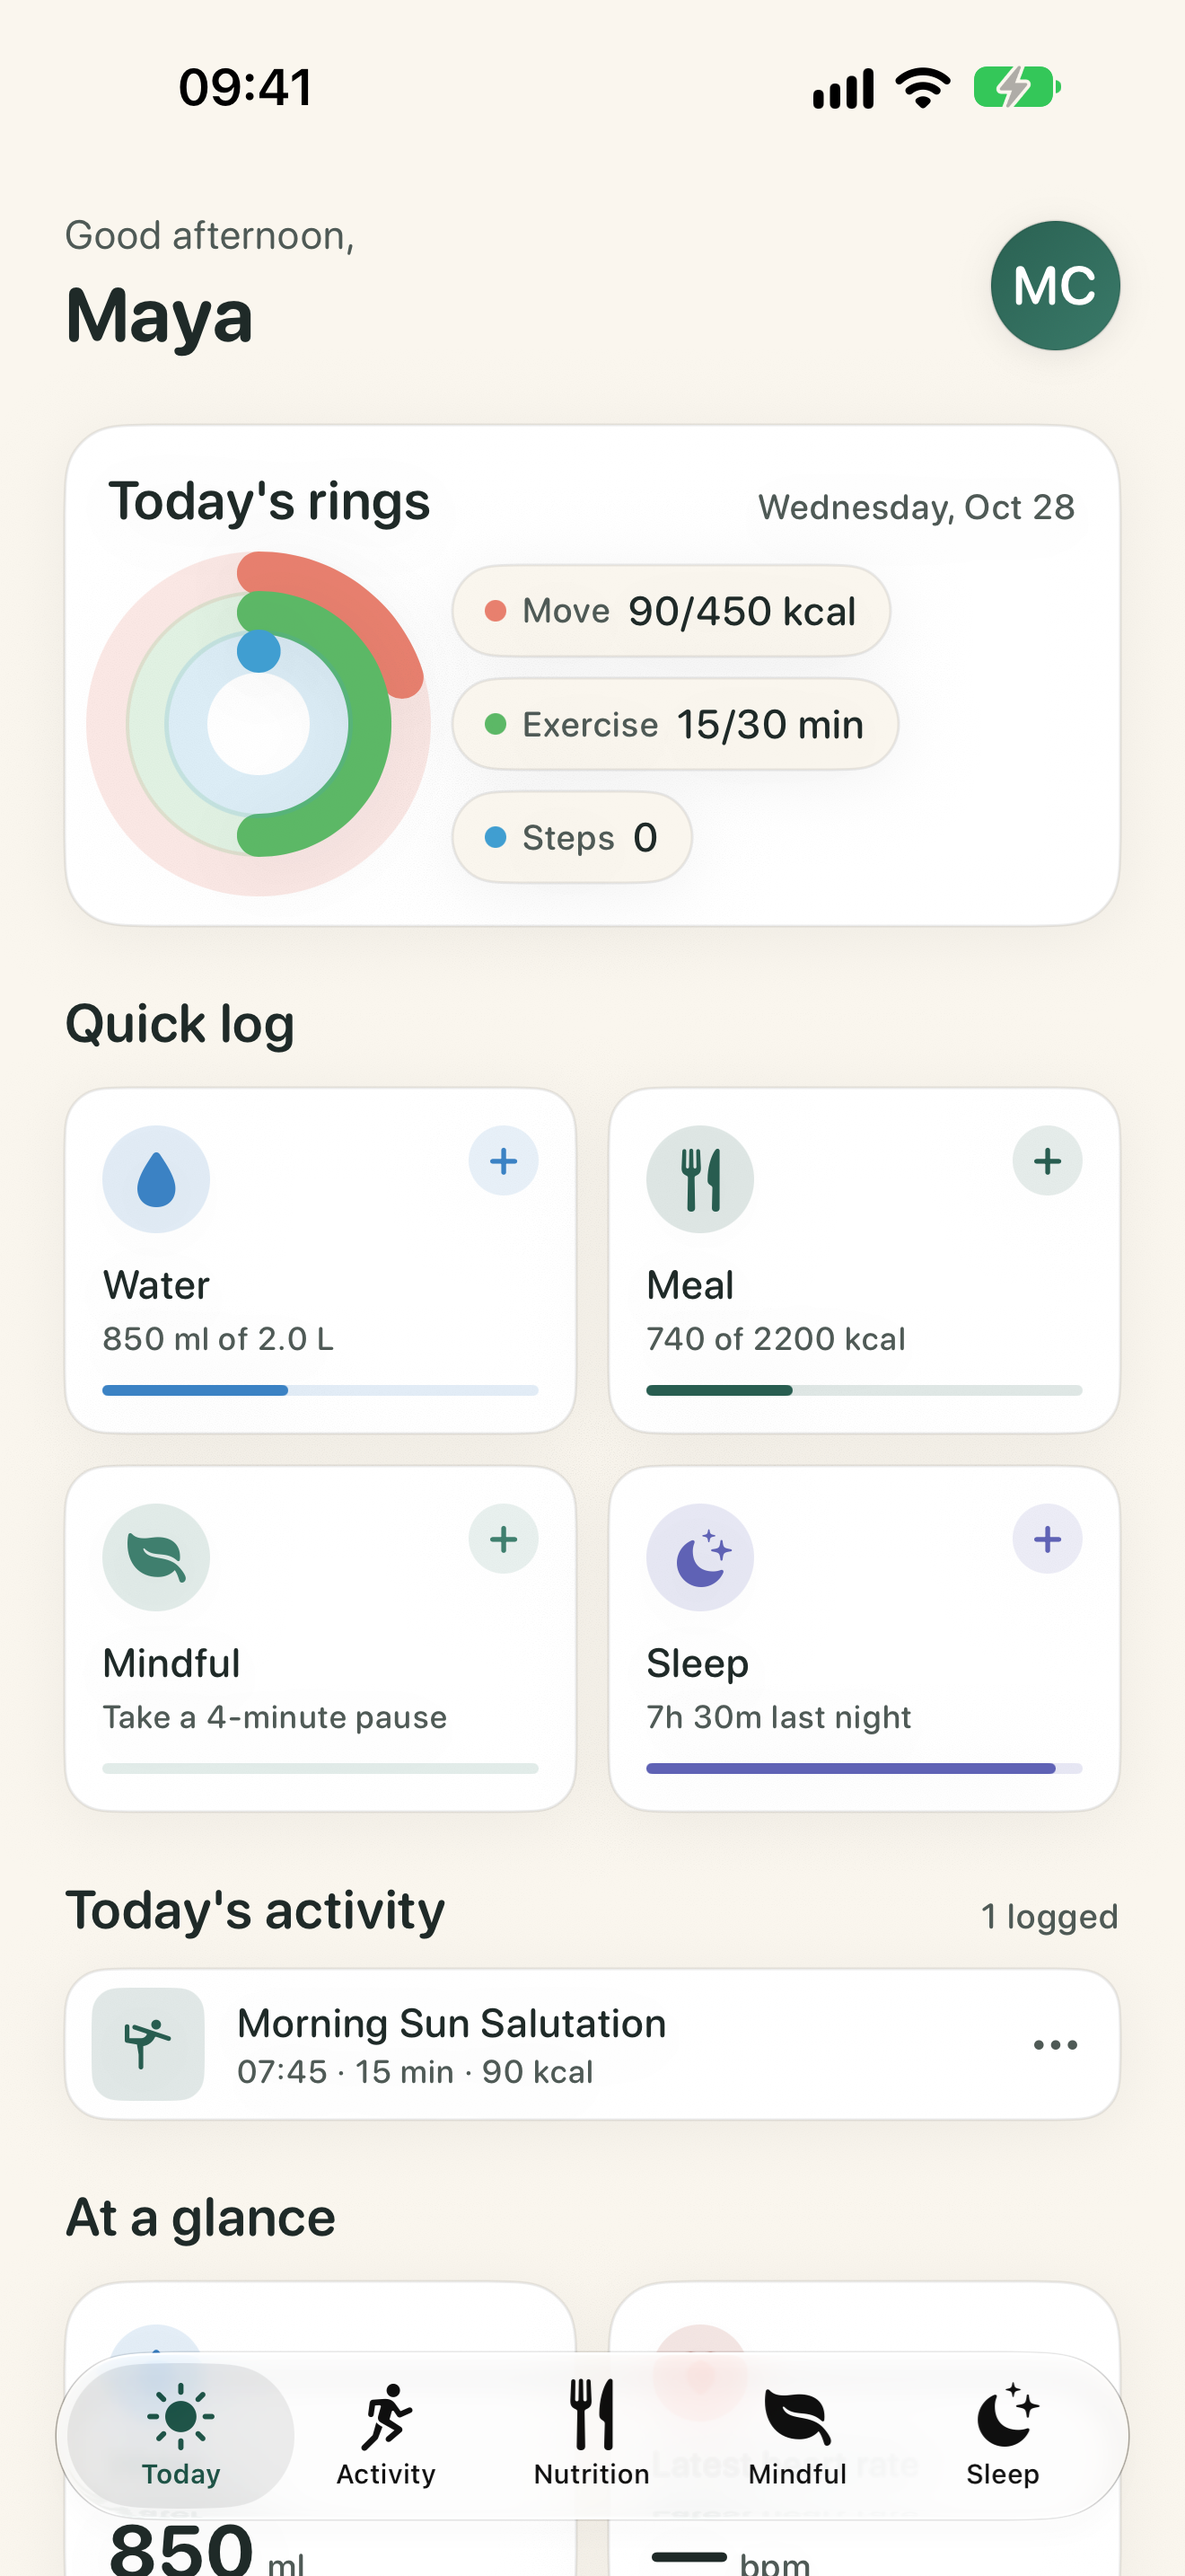
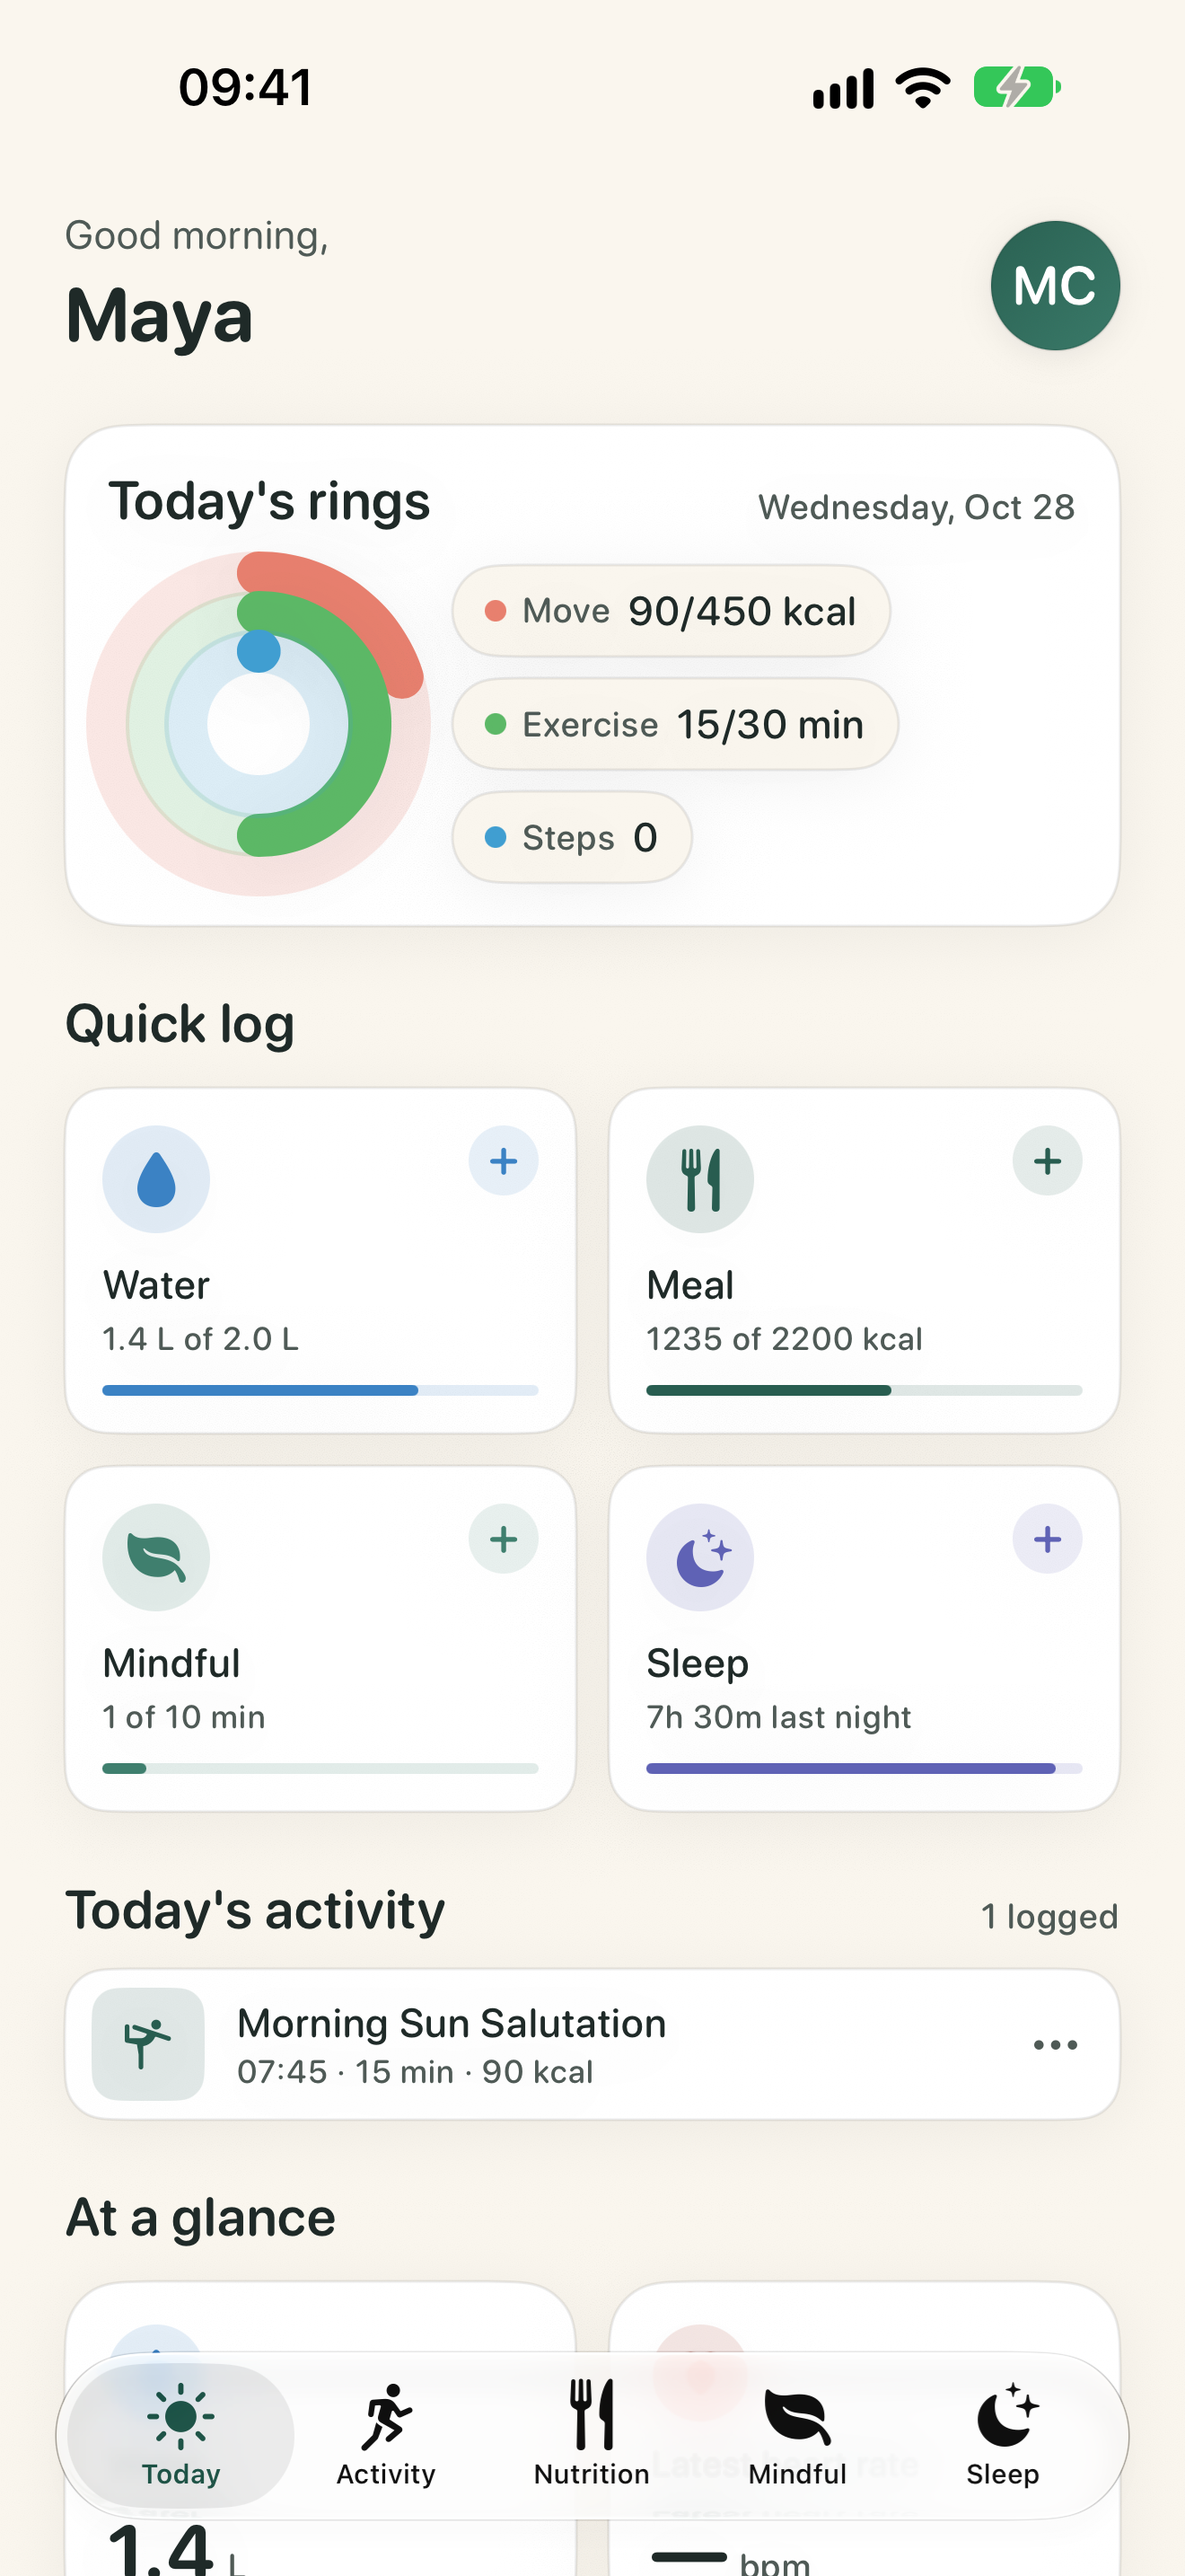
Retake the App Store screenshots
All seven 6.9-inch screenshots are retaken from the current app: the
Nutrition shot shows the More nutrients card and the Breathing shot the
Ocean at dusk scene. A Debug-only -greetingHour launch argument lets the
screenshot run greet "Good morning" to match the 9:41 status bar,
whatever time it's taken; Release builds don't include it. The overview
banner and the App Store kit's captions are updated.

diff --git a/Vitala/App/DebugLaunchOptions.swift b/Vitala/App/DebugLaunchOptions.swift
@@ -6,7 +6,16 @@ import Foundation
 ///
 /// - `-resetData`: start from a clean first-launch state.
 /// - `-seedSampleData`: skip onboarding and fill two weeks of realistic logs.
+/// - `-greetingHour <0–23>`: greet as if it were that hour, so screenshots
+///   read "Good morning" under a 9:41 status bar whenever they're taken.
 enum DebugLaunchOptions {
+    static var greetingHour: Int? {
+        let args = ProcessInfo.processInfo.arguments
+        guard let i = args.firstIndex(of: "-greetingHour"), i + 1 < args.count,
+              let hour = Int(args[i + 1]), (0..<24).contains(hour) else { return nil }
+        return hour
+    }
+
     static func apply(arguments: [String] = ProcessInfo.processInfo.arguments) {
         if arguments.contains("-resetData") || arguments.contains("-seedSampleData") {
             reset()

diff --git a/Vitala/Features/Dashboard/DashboardView.swift b/Vitala/Features/Dashboard/DashboardView.swift
@@ -50,7 +50,13 @@ struct DashboardView: View {
     private var workoutsThisWeek: Int { Insights.workoutsThisWeek(store.workouts) }
 
     private var greeting: String {
-        switch Calendar.current.component(.hour, from: .now) {
+        let hour: Int = {
+            #if DEBUG
+            if let hour = DebugLaunchOptions.greetingHour { return hour }
+            #endif
+            return Calendar.current.component(.hour, from: .now)
+        }()
+        return switch hour {
         case 5..<12: "Good morning"
         case 12..<17: "Good afternoon"
         case 17..<22: "Good evening"

diff --git a/VitalaUITests/ScreenshotTests.swift b/VitalaUITests/ScreenshotTests.swift
@@ -14,7 +14,8 @@ final class ScreenshotTests: XCTestCase {
     @MainActor
     func testCaptureAppStoreScreenshots() throws {
         let app = XCUIApplication()
-        app.launchArguments = ["-seedSampleData"]
+        // Greet as at 9:41, the time in the screenshots' status bar.
+        app.launchArguments = ["-seedSampleData", "-greetingHour", "9"]
         app.launch()
         XCTAssertTrue(app.tabBars.firstMatch.waitForExistence(timeout: 10))
         settle()

diff --git a/docs/APP_STORE.md b/docs/APP_STORE.md
@@ -130,9 +130,9 @@ No demo account is needed.
 
 1. `01-Today.png` — rings, quick log, today's activity
 2. `02-Activity.png` — sessions and the workout library
-3. `03-Nutrition.png` — intake ring, macros, meals
+3. `03-Nutrition.png` — intake ring, macros and the More nutrients card
 4. `04-Sleep.png` — latest night, 7-night chart
-5. `05-Breathing.png` — guided breathing with sound
+5. `05-Breathing.png` — guided breathing over the Ocean at dusk scene
 6. `06-Progress.png` — consistency and trends
 7. `07-Journal.png` — a mood journal entry
 

diff --git a/README.md b/README.md
@@ -53,6 +53,7 @@ The project uses folder-synchronised groups, so new files in `Vitala/`, `VitalaT
 |---|---|
 | `-resetData` | Start from a clean first-launch state |
 | `-seedSampleData` | Skip onboarding and load two weeks of realistic logs |
+| `-greetingHour 9` | Greet as if it were that hour (used for screenshots) |
 
 Add them in **Product › Scheme › Edit Scheme › Run › Arguments**. They're compiled out of Release builds.
 
